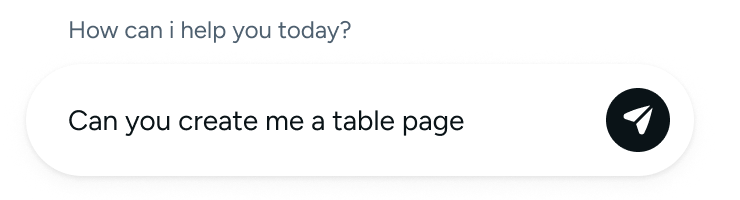
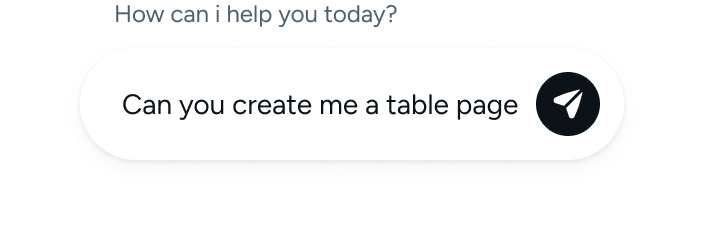
docsite(landing): bento image polish — full-bleed, swap, refreshed art
Polish the Features bento imagery and layout:

- Refresh the Components, Themes, and CLI card images.
- Full-bleed the Themes, CLI, and Templates card images (span the full
  card width, flush to the side + bottom edges) via a negative-inline-
  margin breakout from the inner padding; text keeps its inset.
- Swap the Themes and Templates slots: Themes is now the left flex card,
  Templates the tall right card.
- Frame the Components card image instead of full-bleeding it (symmetric
  40px inset on all four sides) since the small UI sample reads better
  contained.
- Center the Themes card image vertically rather than bottom-anchoring it.
- Use a consistent 40px gap between the text and the image across cards.

Changed region(s): [[0.1562, 0.3, 0.9062, 0.78], [0.0938, 0.0, 0.5625, 0.21], [0.0938, 0.54, 0.625, 0.69]]

diff --git a/apps/docsite/src/app/(site)/_landing/FeaturesShowcase.tsx b/apps/docsite/src/app/(site)/_landing/FeaturesShowcase.tsx
@@ -181,6 +181,13 @@ const styles = stylex.create({
     paddingInlineEnd: spacingVars['--spacing-10'],
     paddingBlockEnd: 0,
   },
+  // Padding for an image card whose image stays *inset* (framed) rather
+  // than full-bleed — --spacing-10 (40px) on all four sides, including
+  // the bottom, so the image keeps left/right/bottom breathing room
+  // inside the card instead of touching the edges.
+  innerPaddingImageInset: {
+    padding: spacingVars['--spacing-10'],
+  },
   // Padding for the text-only card: --spacing-10 (40px) on all
   // sides (matches the image cards' top + sides; only difference
   // is the bottom padding which the image cards drop to 0 for
@@ -195,12 +202,12 @@ const styles = stylex.create({
   exploreLink: {
     marginTop: spacingVars['--spacing-3'],
   },
-  // Image wrapper for the 3 feature cards with images. Rendered as an
-  // XDSHStack with hAlign="start" so the inner image left-aligns per
-  // the bento reference (the tall card uses hAlign="center"; see the
-  // imageWrapTall xstyle below). alignSelf:stretch overrides the
-  // parent VStack's align="start" so this wrapper spans the full card
-  // interior width.
+  // Image wrapper for the 3 feature cards with images. The image is
+  // full-bleed: it spans the entire card width and touches the card's
+  // left, right, and bottom edges (only the text above keeps the
+  // innerPaddingImage inset). To do that, the wrapper cancels the
+  // inner stack's 40px inline padding with negative inline margins so
+  // it reaches the card edges, even though its parent stack is inset.
   //
   // marginTop:auto pushes the wrapper to the bottom of the card's
   // content stack so the image always sits at the bottom regardless
@@ -211,22 +218,57 @@ const styles = stylex.create({
   //
   // overflow:hidden keeps the image contained inside the wrapper
   // (and therefore inside the card, since the card itself uses
-  // overflow:hidden too). No bleed past the card edges in any
-  // direction; the image sits flush at the card's bottom.
+  // overflow:hidden too) so the bottom corners stay rounded.
   imageWrap: {
     marginTop: 'auto',
-    paddingTop: spacingVars['--spacing-6'],
-    alignSelf: 'stretch',
+    // 40px gap between the text above and the image (matches the tall
+    // and inset variants so every card has the same text↔image gap).
+    paddingTop: spacingVars['--spacing-10'],
+    // Break out of the inner stack's 40px inline padding so the image
+    // bleeds to the card's left/right edges. Negative inline margins
+    // pull the wrapper past the padding; the width is grown by the same
+    // 2×40px so the wrapper's content box actually spans the full card
+    // width (a plain width:100% would stay sized to the inset parent).
+    marginInline: `calc(-1 * ${spacingVars['--spacing-10']})`,
+    width: `calc(100% + 2 * ${spacingVars['--spacing-10']})`,
     minWidth: 0,
-    maxWidth: '100%',
     overflow: 'hidden',
   },
-  // Tall-card image wrapper variant. Centered via hAlign="center"
-  // on its XDSHStack (the tall right card gets a wider composition
-  // that reads better centered than hugging an edge). More top
-  // padding because the tall card has more vertical room above the
-  // image baseline that we want to leave visually open.
+  // Tall-card image wrapper variant. Same full-bleed treatment; more
+  // top padding because the tall card has more vertical room above
+  // the image baseline that we want to leave visually open.
   imageWrapTall: {
+    marginTop: 'auto',
+    paddingTop: spacingVars['--spacing-10'],
+    marginInline: `calc(-1 * ${spacingVars['--spacing-10']})`,
+    width: `calc(100% + 2 * ${spacingVars['--spacing-10']})`,
+    minWidth: 0,
+    overflow: 'hidden',
+  },
+  // Vertically-centered full-bleed image wrapper. Same edge-to-edge
+  // horizontal bleed as imageWrap, but the image floats in the middle
+  // of the card's leftover vertical space instead of being pinned to
+  // the bottom: marginBlock:auto puts equal auto-margin above and
+  // below. Used by the Themes card so its composition sits centered
+  // rather than bottom-anchored with a tall empty gap above.
+  imageWrapCentered: {
+    marginBlock: 'auto',
+    // Keep at least a 40px gap above the image even when centered, so
+    // the text↔image spacing matches the other cards.
+    paddingTop: spacingVars['--spacing-10'],
+    marginInline: `calc(-1 * ${spacingVars['--spacing-10']})`,
+    width: `calc(100% + 2 * ${spacingVars['--spacing-10']})`,
+    minWidth: 0,
+    overflow: 'hidden',
+  },
+  // Inset (framed) image wrapper — keeps the image within the card's
+  // inner padding instead of bleeding to the edges. No negative inline
+  // margins and no width expansion, so the wrapper stays inside the
+  // 40px inset and the image has left/right/bottom breathing room (the
+  // inner stack supplies the bottom padding via innerPaddingImageInset).
+  // paddingTop is --spacing-10 (40px) so the gap above the image
+  // matches the 40px frame on the other three sides.
+  imageWrapInset: {
     marginTop: 'auto',
     paddingTop: spacingVars['--spacing-10'],
     alignSelf: 'stretch',
@@ -234,25 +276,19 @@ const styles = stylex.create({
     maxWidth: '100%',
     overflow: 'hidden',
   },
-  // Default image: capped at 320px so a single composition (badges,
-  // a small UI sample, a stack of mocks) doesn't span the full
-  // card width — the reference shows images occupying the left
-  // ~70% of the card's interior with whitespace to the right.
-  // height:auto preserves natural aspect ratio. display:block kills
-  // the inline baseline gap so there's no mystery whitespace under
-  // the image.
+  // Default image: full-bleed to the card width (no max-width cap) so
+  // it spans edge-to-edge. height:auto preserves natural aspect ratio.
+  // display:block kills the inline baseline gap so there's no mystery
+  // whitespace under the image.
   featureImage: {
     width: '100%',
-    maxWidth: 320,
     height: 'auto',
     display: 'block',
   },
-  // Tall-card image: larger cap so the composition reads as the
-  // dominant lower-half element of the tall card per the reference.
-  // Still height:auto so the natural aspect ratio is preserved.
+  // Tall-card image: same full-bleed treatment. Still height:auto so
+  // the natural aspect ratio is preserved.
   featureImageTall: {
     width: '100%',
-    maxWidth: 400,
     height: 'auto',
     display: 'block',
   },
@@ -287,7 +323,7 @@ const features: Record<string, Feature> = {
     href: '/components',
     image: {
       src: '/feature-components.png',
-      alt: 'Sample XDS components — Badge, Switch, Secondary button, Primary button, Search input',
+      alt: 'Sample XDS components — Badges, radio, checkbox, switch, Secondary and Primary buttons, and a search input',
     },
   },
   themes: {
@@ -297,7 +333,7 @@ const features: Record<string, Feature> = {
     href: '/themes',
     image: {
       src: '/feature-brand.png',
-      alt: 'Butter theme applied to a full product landing page with display script, primary CTA, and three product cards',
+      alt: 'A product landing page styled with the Butter theme, shown alongside the theme\u2019s color swatches and type sample',
     },
   },
   templates: {
@@ -326,6 +362,8 @@ function FeatureCard({
   feature,
   isTall = false,
   isFlex = false,
+  insetImage = false,
+  centerImage = false,
 }: {
   feature: Feature;
   /**
@@ -344,6 +382,20 @@ function FeatureCard({
    * intentionally shrink-to-content).
    */
   isFlex?: boolean;
+  /**
+   * When true, the image stays inset (framed) with left/right/bottom
+   * padding instead of bleeding to the card edges. Used for the
+   * "Over 150 components" card whose sample reads better framed than
+   * full-bleed. Ignored for the tall card (which always full-bleeds).
+   */
+  insetImage?: boolean;
+  /**
+   * When true, the full-bleed image is centered in the card's leftover
+   * vertical space instead of pinned to the bottom. Used for the Themes
+   * card so its composition floats centered rather than bottom-anchored
+   * with a tall empty gap above. Ignored for tall / inset images.
+   */
+  centerImage?: boolean;
 }) {
   const hasImage = feature.image != null;
   // Style precedence:
@@ -369,7 +421,13 @@ function FeatureCard({
         gap={1}
         align="start"
         height="100%"
-        xstyle={hasImage ? styles.innerPaddingImage : styles.innerPaddingText}>
+        xstyle={
+          hasImage
+            ? insetImage
+              ? styles.innerPaddingImageInset
+              : styles.innerPaddingImage
+            : styles.innerPaddingText
+        }>
         <XDSHeading level={2} color="primary">
           {feature.title}
         </XDSHeading>
@@ -387,10 +445,21 @@ function FeatureCard({
         {hasImage && feature.image && (
           // XDSHStack handles the flex+direction+alignment chrome;
           // marginTop/padding/overflow/sizing live in the xstyle.
+          // No width prop: the wrapper's width is set in the xstyle to
+          // calc(100% + 2×40px) so it can exceed the inset parent and
+          // bleed the image to the card edges (a width="100%" prop here
+          // would win over the xstyle and clamp it back to the inset).
           <XDSHStack
-            width="100%"
             hAlign={isTall ? 'center' : 'start'}
-            xstyle={isTall ? styles.imageWrapTall : styles.imageWrap}>
+            xstyle={
+              isTall
+                ? styles.imageWrapTall
+                : insetImage
+                  ? styles.imageWrapInset
+                  : centerImage
+                    ? styles.imageWrapCentered
+                    : styles.imageWrap
+            }>
             {/* Decorative image — kept as a raw <img> because @xds/core
                 does not export a dedicated Image primitive (XDSThumbnail
                 is a chat/attachment chrome, not a fit-to-container
@@ -444,17 +513,17 @@ export function FeaturesShowcase() {
   // balances the column heights: the "Over 150 components" card in
   // the middle column grows to fill the space its "CLI" sibling
   // leaves behind, matching the heights of the dedicated
-  // "Templates" card on the left and the "Themes" card on the
+  // "Themes" card on the left and the "Templates" card on the
   // right.
   //
   // Layout on desktop (≥720px):
-  //   col 1: HeadingBlock + Templates (flex)
+  //   col 1: HeadingBlock + Themes (flex)
   //   col 2: Components (flex) + CLI (image, natural height)
-  //   col 3: Themes (tall, flex)
+  //   col 3: Templates (tall, flex)
   //
   // Below 720px the grid collapses to 1 column. Each column wrapper
   // renders top-to-bottom in DOM order, so the cards stack as:
-  // heading → templates → components → CLI → themes.
+  // heading → themes → components → CLI → templates.
   return (
     <XDSVStack as="section" align="center" gap={10} width="100%">
       {/* CSS-grid container with responsive column count. Kept as a
@@ -471,14 +540,14 @@ export function FeaturesShowcase() {
             owns only the responsive display switch. */}
         <XDSVStack gap={8} width="100%" height="100%" xstyle={styles.column}>
           <HeadingBlock />
-          <FeatureCard feature={features.templates} isFlex />
+          <FeatureCard feature={features.themes} isFlex centerImage />
         </XDSVStack>
         <XDSVStack gap={8} width="100%" height="100%" xstyle={styles.column}>
-          <FeatureCard feature={features.components} isFlex />
+          <FeatureCard feature={features.components} isFlex insetImage />
           <FeatureCard feature={features.cli} />
         </XDSVStack>
         <XDSVStack gap={8} width="100%" height="100%" xstyle={styles.column}>
-          <FeatureCard feature={features.themes} isTall />
+          <FeatureCard feature={features.templates} isTall />
         </XDSVStack>
       </div>
     </XDSVStack>